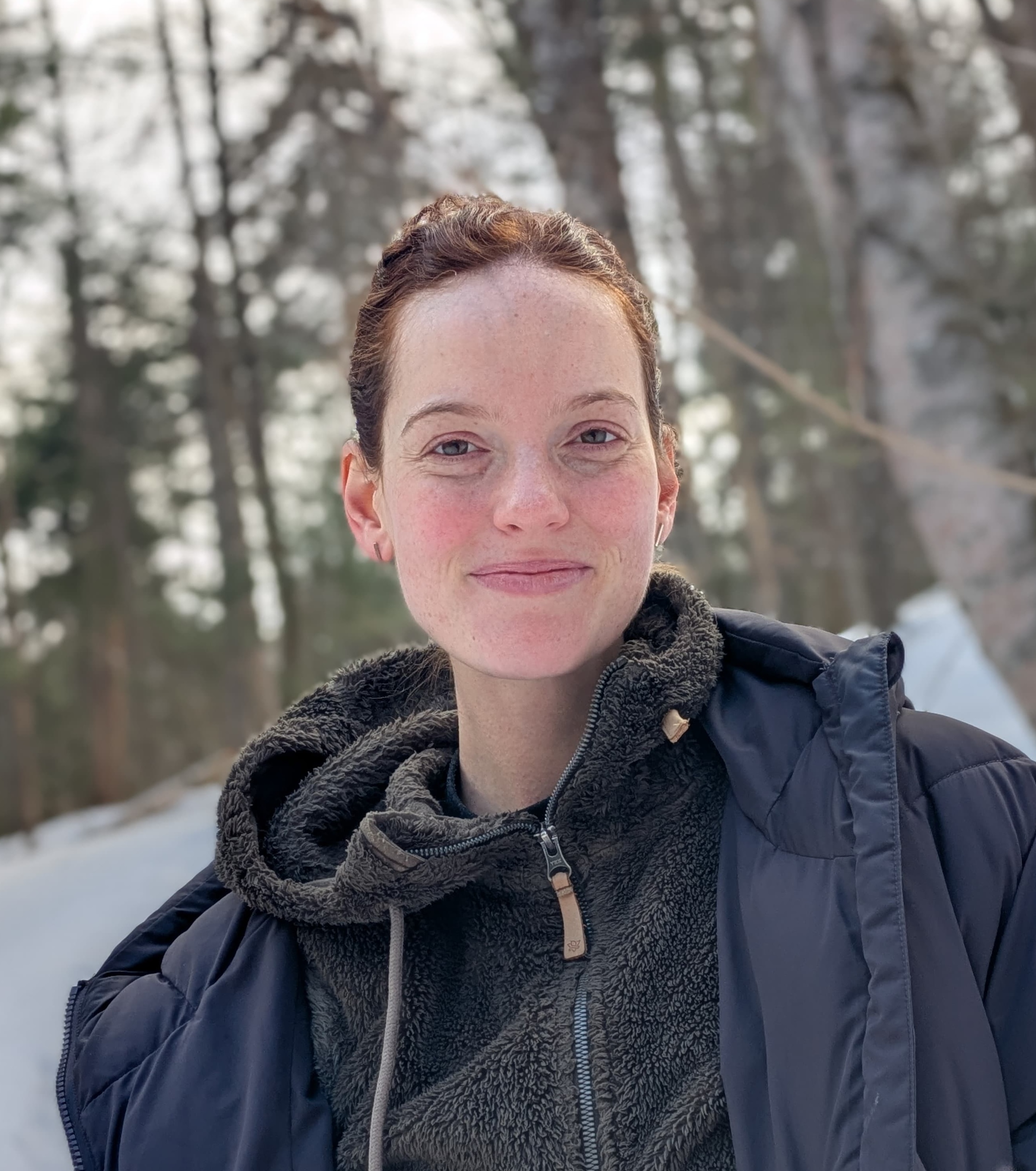
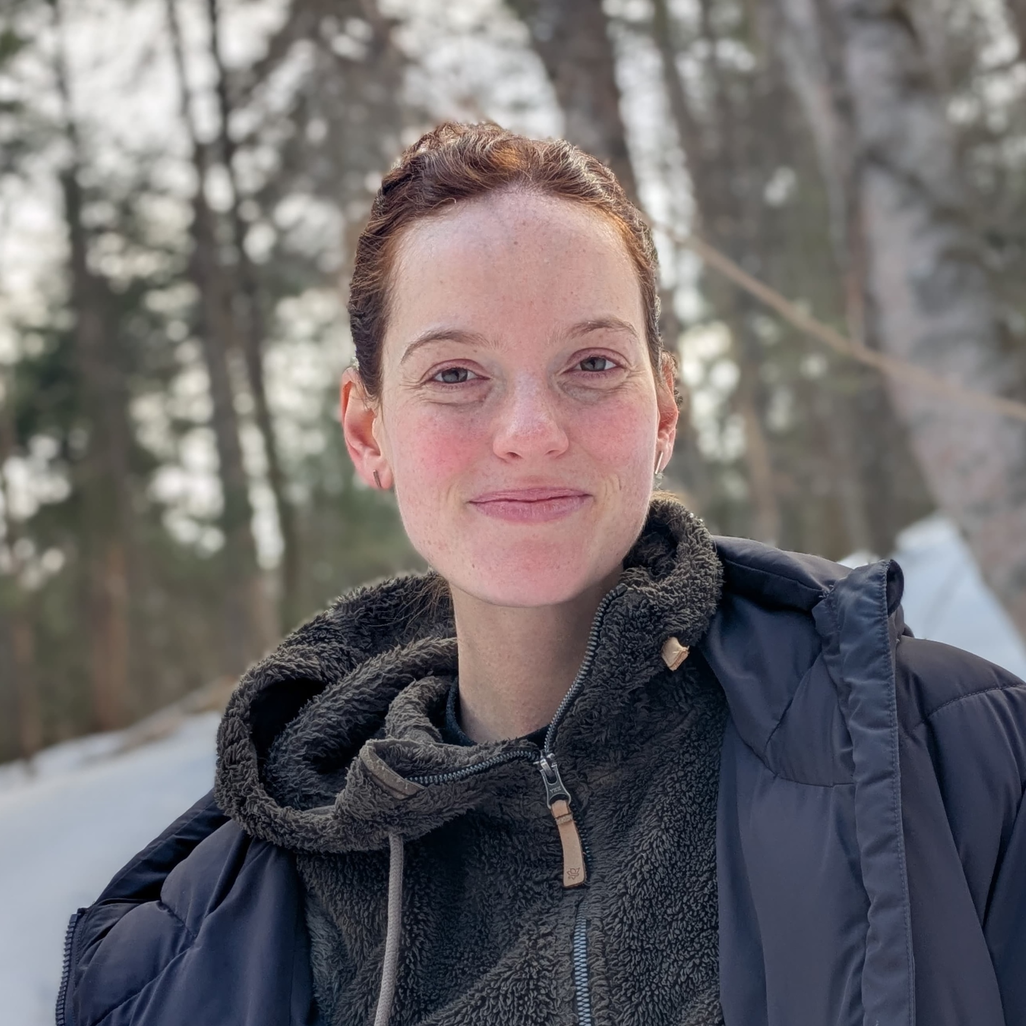
Made picture square

diff --git a/content/blog/2025-06-05-mentors-2025/index.es.md b/content/blog/2025-06-05-mentors-2025/index.es.md
@@ -73,6 +73,8 @@ Estoy profundamente comprometido con el fortalecimiento de las capacidades técn
 
 ## Geraldine Gómez Millán
 
+{{< figure src = "/img/team/geraldine-gomez.png" width = "250" alt = "Foto de perfil de Geraldine Gómez Millán" class = "pull-right" caption = "<strong>Geraldine Gómez Millán</br>IBM</br>Epiverse TRACE-LAC</strong>">}}
+
 Mi nombre es Geraldine Gómez Millán, soy de Colombia, Ingeniera de Sistemas y actualmente curso una maestría en Ingeniería de Software. He participado en diversos proyectos sociales, liderando el desarrollo de paquetes y software en R con enfoque en epidemiología y análisis regional. He realizado entrenamientos en R y en buenas prácticas de programación.
 
 Cuento con experiencia en análisis de datos, arquitectura de software, metodologías de desarrollo, seguridad, DevOps, Cloud e inteligencia artificial. Actualmente, lidero un equipo de seguridad de la información y me desempeño como mentora en el Champions Program.
@@ -80,6 +82,8 @@ Cuento con experiencia en análisis de datos, arquitectura de software, metodolo
 Creo firmemente que el conocimiento que no se comparte, no existe. Compartir saberes, construir de manera colectiva y generar oportunidades a través del aprendizaje y la democratización de la tecnología son factores claves para transformar la sociedad. Espero poder aportar mi experiencia y conocimiento socio-técnico desde una perspectiva ética e innovadora, como también deseo poder ampliar y conocer otras formas de pensamiento y enfoques para la resolución de problemas.
 
 ## Luis D. Verde Arregoitia
+
+{{< figure src = "/img/team/luis-verde.jpeg" width = "250" alt = "Foto de perfil de Luis D. Verde Arregoitia" class = "pull-right" caption = "<strong>Luis D. Verde Arregoitia</br>Instituto de Ecología AC - INECOL.</br>LatinR, rOpenSci, The Carpentires</strong>">}}
 
 Hola, soy Luis D. Verde Arregoitia, mexicano viviendo en México. Soy mastozoólogo con formación en Biología. Soy licenciado en Biología por la Universidad Nacional Autónoma de México y doctor en Ciencias de la Conservación por la Universidad de Queensland, Australia.
 
@@ -89,6 +93,8 @@ Fue mentor durante la cohorte 2023-2024 y estoy feliz de participar nuevamente e
 
 ## Milagros Mendoza
 
+{{< figure src = "/img/team/milagros-mendoza.jpeg" width = "250" alt = "Foto de perfil de Milagros Mendoza" class = "pull-right" caption = "<strong>Milagros Mendoza</br>Universidade Federal Rural de Pernambuco (UFRPE)</br>R-Ladies Natal</strong>">}}
+
 Mi nombre es Milagros Mendoza. Soy peruana de nacimiento, pero actualmente resido en Brasil donde trabajo en la Universidade Federal Rural de Pernambuco (UFRPE). Tambien soy parte de R-Ladies Natal.
 
 Me interesa paticipar del programa de Campeon(e|a)s para compartir conocimientos y experiencia con otras personas de la comunidad rOpenSci y promover la ciencia de datos abierta  y contribuir a la creación de herramientas y recursos de código abierto. Al ser mentora, también podre desarrollar habilidades de liderazgo y comunicación, y aprender a trabajar con otras personas para lograr objetivos comunes.
@@ -96,6 +102,8 @@ Me interesa paticipar del programa de Campeon(e|a)s para compartir conocimientos
 Estoy feliz en poder contribuir en la comunidad de ciencia abierta. 
 
 ## Pablo Tiscornia
+
+{{< figure src = "/img/team/milagros-mendoza.jpeg" width = "250" alt = "Foto de perfil de Milagros Mendoza" class = "pull-right" caption = "<strong>Milagros Mendoza</br>Universidade Federal Rural de Pernambuco (UFRPE)</br>R-Ladies Natal</strong>">}}
 
 Soy Pablo Tiscornia, Licenciado en Sociología, nacido en Argentina y actualmente viviendo en México. Trabajo como científico de datos en C40 Cities, una organización global que impulsa acciones climáticas urbanas, y dirijo Estación R, una escuela especializada en formación sobre R y análisis de datos en América Latina.
 
@@ -120,6 +128,7 @@ Anteriormente trabajé en industria desarrollando soluciones de datos para difer
 
 Mi entrada al mundo de R y la programación fue posible gracias a personas que estuvieron dispuestas a enseñarme,por lo que participar en este programa es una manera de devolver y aportar a la comunidad.
 
+## Lo que viene
 
 Estamos muy contentos y agradecidos de contar con este equipo diverso y talentoso de mentores y mentoras, que encarna los valores de colaboración, apertura y compromiso con el crecimiento colectivo. Su acompañamiento será clave para que los y las nuevas Campeon(a|e)s puedan llevar adelante sus ideas y proyectos, y contribuir al desarrollo de una comunidad de ciencia abierta más fuerte y diversa en América Latina.
 
